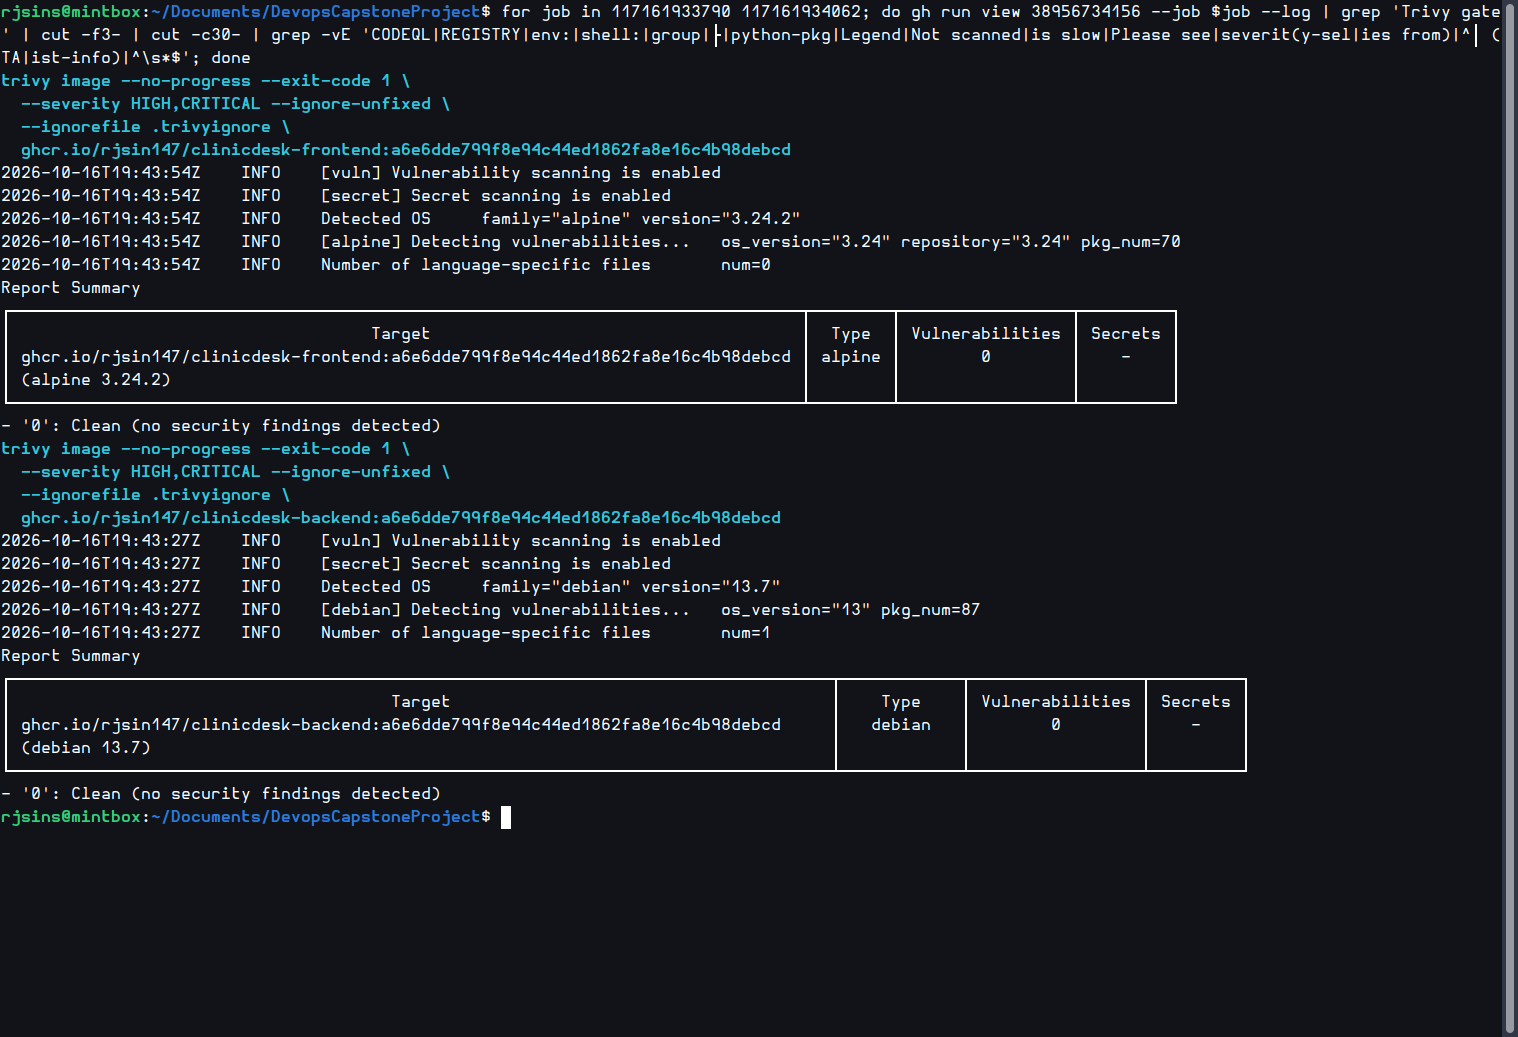
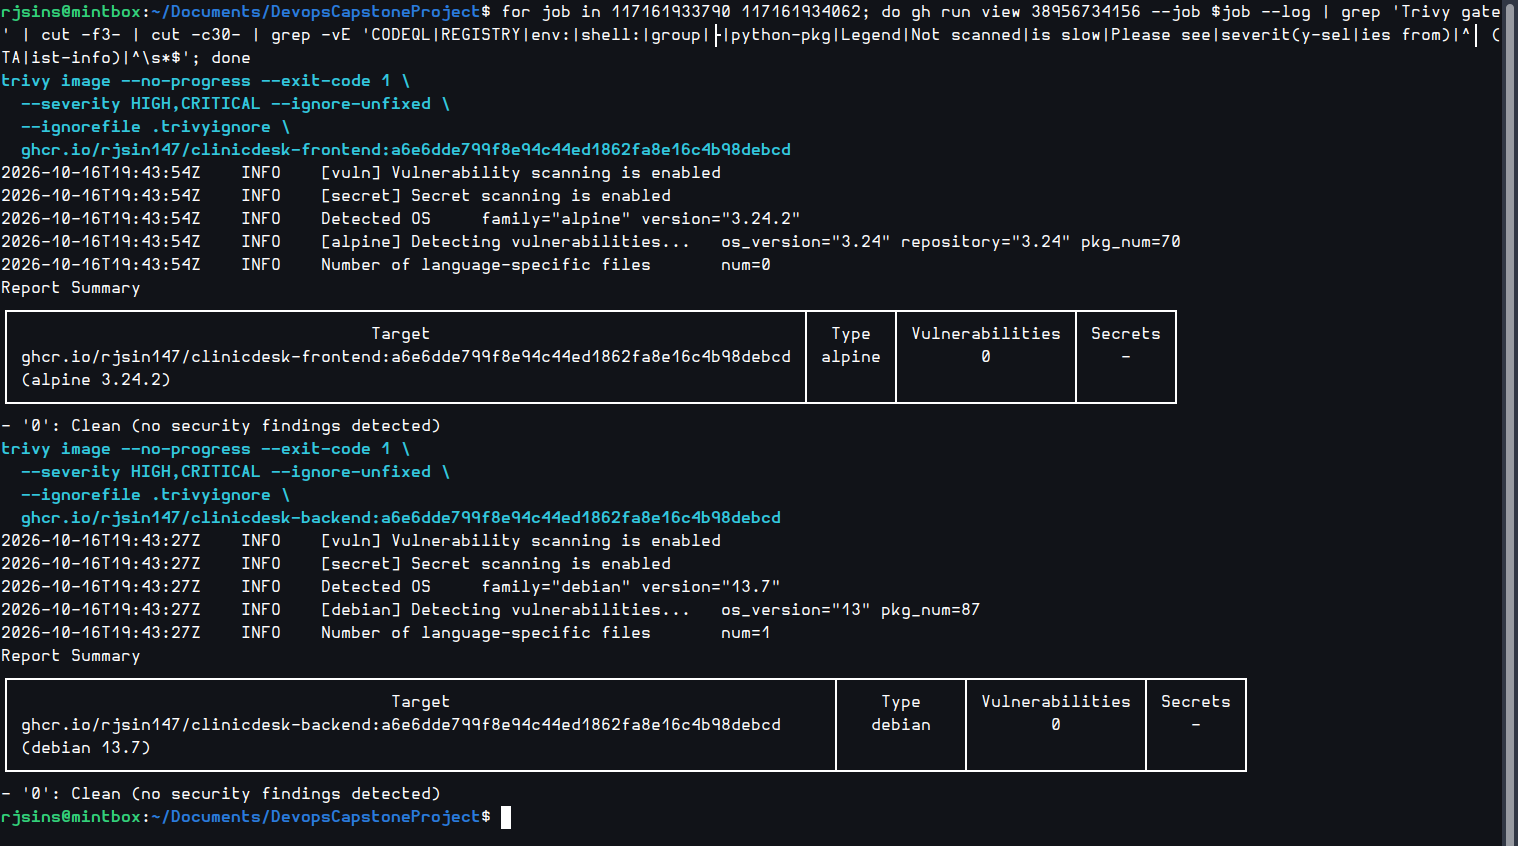
Add Kubernetes, ArgoCD, Prometheus and Grafana screenshots from minikube

diff --git a/README.md b/README.md
@@ -6,6 +6,8 @@ I built it as my DevOps final capstone. The app is deliberately small. The point
 
 > Demo video and slides are in [`demo/`](demo/). Screenshots for grading are in [`docs/screenshots/`](docs/screenshots/).
 
+![ClinicDesk running locally](docs/screenshots/app-compose.png)
+
 ---
 
 ## Contents
@@ -231,7 +233,7 @@ Frontend helpers (date conversion, status transitions, error parsing) have a few
 cd frontend && npm test
 ```
 
-Evidence: `docs/screenshots/pytest-pass.png` (TODO: add screenshot of `pytest -v`)
+Evidence: [`pytest-pass.png`](docs/screenshots/pytest-pass.png)
 
 ## CI/CD pipeline
 
@@ -260,8 +262,8 @@ So any running pod can be traced back to the exact commit it was built from (`ku
 
 Evidence:
 - Pipeline run: https://github.com/RJSIN147/DevopsCapstoneProject/actions/runs/38954914310 (all jobs green, including the kind smoke deploy)
-- `docs/screenshots/github-actions-green.png` (TODO)
-- `docs/screenshots/ghcr-packages.png` (TODO, the package page showing SHA tags)
+- [`github-actions-green.png`](docs/screenshots/github-actions-green.png)
+- `docs/screenshots/ghcr-packages.png` (TODO: the GHCR package page showing the SHA tags. The packages are private right now, so this needs you logged in to GitHub, or the packages made public first)
 
 ## Security scanning (Trivy)
 
@@ -284,7 +286,7 @@ Trivy scanned the Debian 13 OS packages and all the Python libraries in the back
 
 The first pipeline run actually failed this gate. Trivy found 4 HIGH CVEs (two in urllib3, CVE-2026-97687 and CVE-2026-97689, plus one in msgpack and CVE-2025-47273 in setuptools). None of these were my dependencies. They were copies that pip vendors inside itself, sitting in the image's virtualenv. pip isn't needed once the dependencies are installed, so the Dockerfile now uninstalls it in the build stage and the next run passed.
 
-Evidence: `docs/screenshots/trivy-scan.png` (TODO)
+Evidence: [`trivy-scan.png`](docs/screenshots/trivy-scan.png) (the gate step from the pipeline log, both images at 0 fixable HIGH/CRITICAL)
 
 Other security bits:
 - containers run as non-root, drop all Linux capabilities, `allowPrivilegeEscalation: false`, seccomp `RuntimeDefault`, and the backend has a read-only root filesystem
@@ -420,10 +422,14 @@ For a quick demo without a domain, point the ingress host at the load balancer: 
 The GHCR packages need to be public for EKS to pull them without credentials (GitHub -> your profile -> Packages -> clinicdesk-backend -> Package settings -> Change visibility). The alternative is a docker-registry secret plus `imagePullSecrets` in the values.
 
 Evidence:
-- `docs/screenshots/kubectl-get-pods.png` (TODO)
-- `docs/screenshots/kubectl-get-svc.png` (TODO)
-- `docs/screenshots/helm-list.png` (TODO)
-- `docs/screenshots/app-via-ingress.png` (TODO)
+Taken on the local minikube cluster:
+
+- [`kubectl-get-pods.png`](docs/screenshots/kubectl-get-pods.png)
+- [`kubectl-get-svc.png`](docs/screenshots/kubectl-get-svc.png) (services + ingress)
+- [`kubectl-get-all.png`](docs/screenshots/kubectl-get-all.png) (deployments, statefulset, HPA, PDB, ServiceMonitor, PVC)
+- [`helm-list.png`](docs/screenshots/helm-list.png)
+- [`app-via-ingress.png`](docs/screenshots/app-via-ingress.png) (http://clinicdesk.local through ingress-nginx)
+- EKS versions of these: TODO once the cluster is up
 
 ## GitOps with ArgoCD
 
@@ -451,7 +457,9 @@ git push -> CI tests, builds, scans, pushes ghcr.io/...:<sha>
 
 The tag bump is a commit made by the pipeline, so it's switched off until you add the repository variable `GITOPS_AUTO_BUMP` = `true` (Settings -> Secrets and variables -> Actions -> Variables). Without it, update the two `tag:` lines in `values-prod.yaml` to the SHA of a green run and push; ArgoCD picks it up the same way.
 
-Evidence: `docs/screenshots/argocd-synced.png` (TODO)
+Evidence: [`argocd-synced.png`](docs/screenshots/argocd-synced.png) (minikube, `application-dev.yaml`, Synced + Healthy on the latest main commit)
+
+If you switch the app from ArgoCD back to a plain `helm upgrade --install`, ArgoCD's field manager still owns some fields, so Helm 4 needs `--force-conflicts` the first time.
 
 ## Observability (Prometheus + Grafana)
 
@@ -469,9 +477,9 @@ kubectl port-forward -n monitoring svc/monitoring-grafana 3001:80
 ```
 
 Evidence:
-- `docs/screenshots/metrics-endpoint.png` (TODO)
-- `docs/screenshots/prometheus-targets-up.png` (TODO)
-- `docs/screenshots/grafana-dashboard.png` (TODO)
+- [`metrics-endpoint.png`](docs/screenshots/metrics-endpoint.png)
+- [`prometheus-targets-up.png`](docs/screenshots/prometheus-targets-up.png) (both backend pods UP via the ServiceMonitor)
+- [`grafana-dashboard.png`](docs/screenshots/grafana-dashboard.png) (the spikes are two runs of `scripts/load-test.sh`)
 
 ## Autoscaling (HPA)
 
@@ -488,7 +496,7 @@ kubectl get hpa -n clinicdesk -w
 
 It uses `hey` if installed, plain curl loops otherwise. Scale-down has a 2 minute stabilization window so the pods don't disappear the second the load stops.
 
-Evidence: `docs/screenshots/hpa-scaling.png` (TODO)
+Evidence: [`hpa-scaling.png`](docs/screenshots/hpa-scaling.png) (2 -> 6 pods at 190% CPU during the load test)
 
 ## Troubleshooting lab
 
@@ -518,36 +526,38 @@ Application
   [x] docker compose up --build runs postgres, backend, frontend
   [x] 4+ REST endpoints (GET/POST/PUT/DELETE on doctors and appointments)
   [x] Alembic migrations in backend/alembic/versions
-  [ ] screenshot of the app in the browser             docs/screenshots/app-compose.png
+  [x] screenshot of the app in the browser             docs/screenshots/app-compose.png
 
 Testing
   [x] 25 pytest tests, in-memory SQLite, pytest.ini + conftest.py
-  [ ] pytest -v screenshot                             docs/screenshots/pytest-pass.png
+  [x] pytest -v screenshot                             docs/screenshots/pytest-pass.png
 
 Docker
   [x] backend/Dockerfile, frontend/Dockerfile (multi-stage)
   [x] non-root in both images
-  [ ] docker compose up screenshot                     docs/screenshots/compose-up.png
+  [x] docker compose up screenshot                     docs/screenshots/compose-up.png
 
 CI/CD
   [x] workflow runs on push to main, pytest gates the build
   [x] images pushed to GHCR tagged with the commit SHA
-  [ ] link to a green run + GHCR screenshot
+  [x] link to a green run + screenshot                 docs/screenshots/github-actions-green.png
+  [ ] GHCR package page screenshot                     docs/screenshots/ghcr-packages.png
 
 Security
   [x] Trivy scan on both images, fails on HIGH/CRITICAL
   [x] no secrets in git (secret scan in CI)
-  [ ] Trivy output screenshot + written explanation above
+  [x] Trivy output screenshot + written explanation    docs/screenshots/trivy-scan.png
 
 Terraform
   [x] terraform.tfvars.example, no credentials
   [ ] plan / AWS console / destroy screenshots
 
 Kubernetes + Helm
-  [ ] kubectl get pods, svc, helm list, app through ingress screenshots
+  [x] kubectl get pods, svc, helm list, ingress, HPA   (minikube)
+  [ ] same on EKS
 
 Observability
-  [ ] /metrics, Prometheus targets UP, Grafana dashboard screenshots
+  [x] /metrics, Prometheus targets UP, Grafana dashboard
 
 Documentation
   [x] README.md

diff --git a/docs/screenshots/README.md b/docs/screenshots/README.md
@@ -1,28 +1,29 @@
 # Screenshots
 
-Evidence for each grading module. Drop the PNGs in this folder with these names so the links in the main README work.
+Evidence for each grading module. The Kubernetes, ArgoCD and monitoring ones were taken on my local minikube cluster. The AWS/EKS ones still have to be taken once the Terraform cluster is up.
 
-| File | What it should show | Module |
-|---|---|---|
-| `app-compose.png` | the app at http://localhost:3000 with a few appointments | M1 |
-| `pytest-pass.png` | `pytest -v` with all tests passing | M2 |
-| `git-log.png` | commit history (10+ commits) | M3 |
-| `compose-up.png` | `docker compose up --build` running | M4 |
-| `github-actions-green.png` | a green run of ClinicDesk CI/CD | M5 |
-| `ghcr-packages.png` | GHCR package page with SHA tags | M5 |
-| `trivy-scan.png` | the Trivy step output from the pipeline | M6 |
-| `terraform-plan.png` | `terraform plan` output | M7 |
-| `aws-vpc.png` | VPC in the AWS console (ap-south-1) | M7 |
-| `aws-eks.png` | EKS cluster + node group in the AWS console | M7 |
-| `terraform-destroy.png` | `terraform destroy` finished | M7 |
-| `kubectl-get-pods.png` | `kubectl get pods -n clinicdesk`, all Running | M8 |
-| `kubectl-get-svc.png` | `kubectl get svc -n clinicdesk` | M8 |
-| `helm-list.png` | `helm list -n clinicdesk` | M8 |
-| `app-via-ingress.png` | browser on the ingress host / load balancer | M8 |
-| `argocd-synced.png` | ArgoCD app Synced + Healthy | M10 video |
-| `hpa-scaling.png` | `kubectl get hpa -w` while the load test runs | M8 |
-| `metrics-endpoint.png` | `curl .../metrics` output | M9 |
-| `prometheus-targets-up.png` | Prometheus Targets page, clinicdesk backend UP | M9 |
-| `grafana-dashboard.png` | ClinicDesk dashboard with live data | M9 |
-
-TODO: none of these are taken yet.
+| File | What it shows | Module | Status |
+|---|---|---|---|
+| [`app-compose.png`](app-compose.png) | the app at http://localhost:3000 with today's appointments | M1 | done |
+| [`app-booking-conflict.png`](app-booking-conflict.png) | booking modal rejecting a double booking (409 from the API) | M1 | done |
+| [`api-docs.png`](api-docs.png) | Swagger UI at http://localhost:8000/docs | M1 | done |
+| [`pytest-pass.png`](pytest-pass.png) | `pytest -v`, 25 passed | M2 | done |
+| `git-log.png` | commit history | M3 | see below |
+| [`compose-up.png`](compose-up.png) | `docker compose up --build` with all three services up | M4 | done |
+| [`github-actions-green.png`](github-actions-green.png) | a green run of ClinicDesk CI/CD | M5 | done |
+| `ghcr-packages.png` | GHCR package page with SHA tags | M5 | TODO (packages are private, needs a logged-in browser) |
+| [`trivy-scan.png`](trivy-scan.png) | Trivy gate output from the pipeline, both images clean | M6 | done |
+| `terraform-plan.png` | `terraform plan` output | M7 | TODO (needs AWS credentials) |
+| `aws-vpc.png` | VPC in the AWS console (ap-south-1) | M7 | TODO |
+| `aws-eks.png` | EKS cluster + node group in the AWS console | M7 | TODO |
+| `terraform-destroy.png` | `terraform destroy` finished | M7 | TODO |
+| [`kubectl-get-pods.png`](kubectl-get-pods.png) | `kubectl get pods -n clinicdesk`, all Running | M8 | done (minikube) |
+| [`kubectl-get-svc.png`](kubectl-get-svc.png) | services and the ingress | M8 | done (minikube) |
+| [`kubectl-get-all.png`](kubectl-get-all.png) | deployments, statefulset, HPA, PDB, ServiceMonitor, PVC | M8 | done (minikube) |
+| [`helm-list.png`](helm-list.png) | `helm list` + `helm status` | M8 | done (minikube) |
+| [`app-via-ingress.png`](app-via-ingress.png) | the app through the ingress host clinicdesk.local | M8 | done (minikube) |
+| [`hpa-scaling.png`](hpa-scaling.png) | HPA going from 2 to 6 pods under `scripts/load-test.sh` | M8 | done (minikube) |
+| [`argocd-synced.png`](argocd-synced.png) | ArgoCD app Synced + Healthy | M10 video | done (minikube) |
+| [`metrics-endpoint.png`](metrics-endpoint.png) | `curl .../metrics` | M9 | done |
+| [`prometheus-targets-up.png`](prometheus-targets-up.png) | Prometheus target health, clinicdesk backend 2/2 UP | M9 | done (minikube) |
+| [`grafana-dashboard.png`](grafana-dashboard.png) | ClinicDesk dashboard with traffic from the load test | M9 | done (minikube) |
